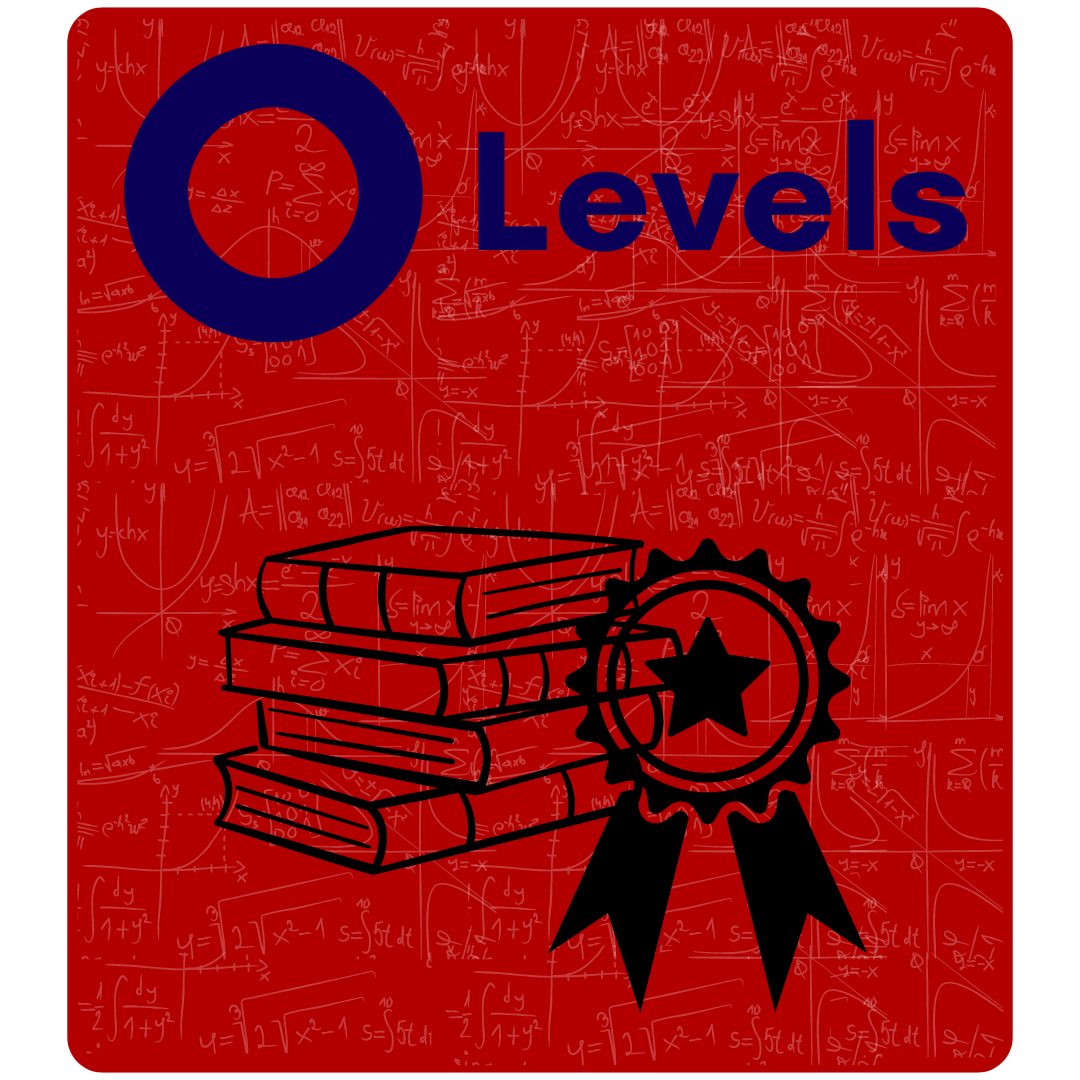
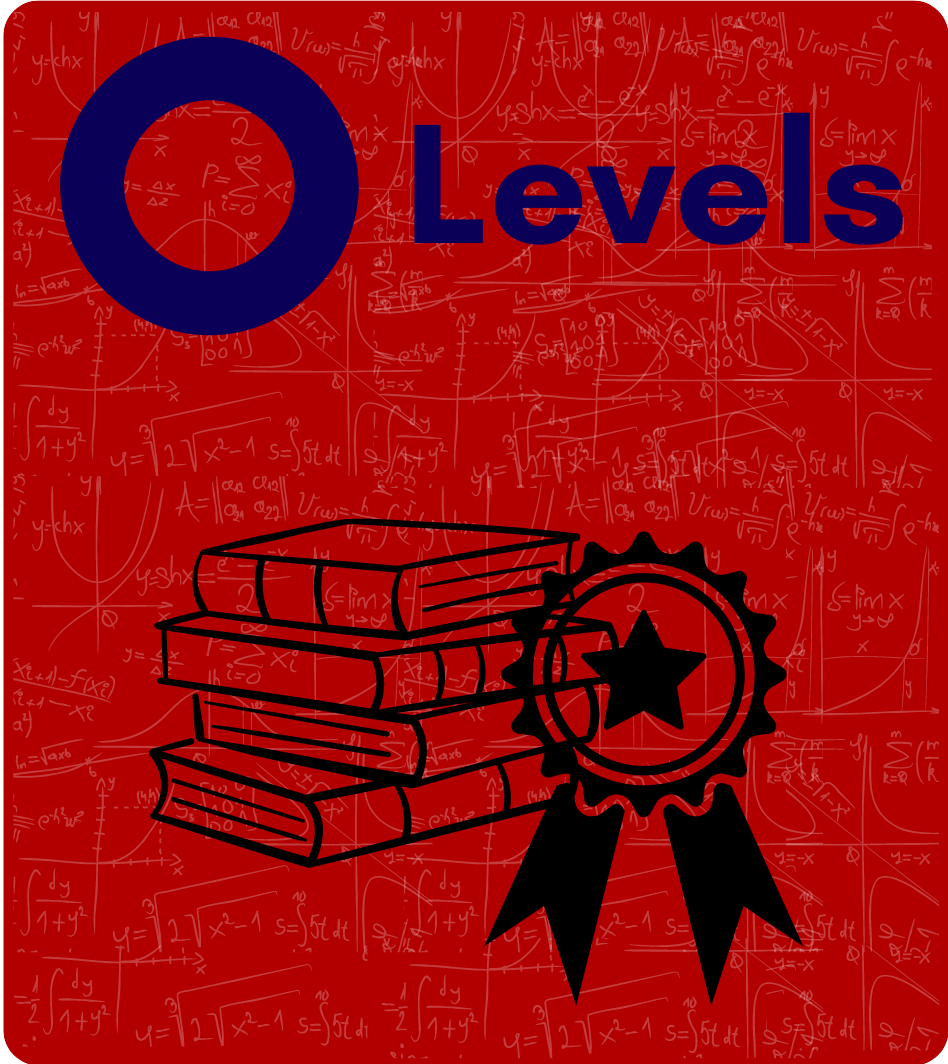
adding animation to portal card

diff --git a/index.html b/index.html
@@ -53,16 +53,13 @@
                 <h3>Study Portals</h3>
             </div>
             <div class="portals">
-                <img src="./media/OL-card.png" alt="">
-                <img src="./media/AL-card.png" alt="">
+                <img src="./media/OL-card.png" data-tilt data-tilt-scale="1.1" alt="">
+                <img src="./media/AL-card.png" data-tilt data-tilt-scale="1.1" alt="">
             </div>
         </div>
-
-
-
-
     </div>
     <script src="./script.js"></script>
+    <script type="text/javascript" src="vanilla-tilt.js"></script>
 </body>
 
 </html>

diff --git a/styles/style.css b/styles/style.css
@@ -178,7 +178,11 @@ h3{
     justify-content: center;
 }
 .portals > img{
-    height: 400px;
-    margin: 0px 50px;
-    box-shadow: 30px 30px 30px rgba(0, 0, 0, 0.3);
+    height: 360px;
+    margin: 0px 70px;
+    cursor: pointer;
+    border-radius: 10px;
+}
+.portals > img:hover{
+    box-shadow: 20px 20px 20px black;
 }
